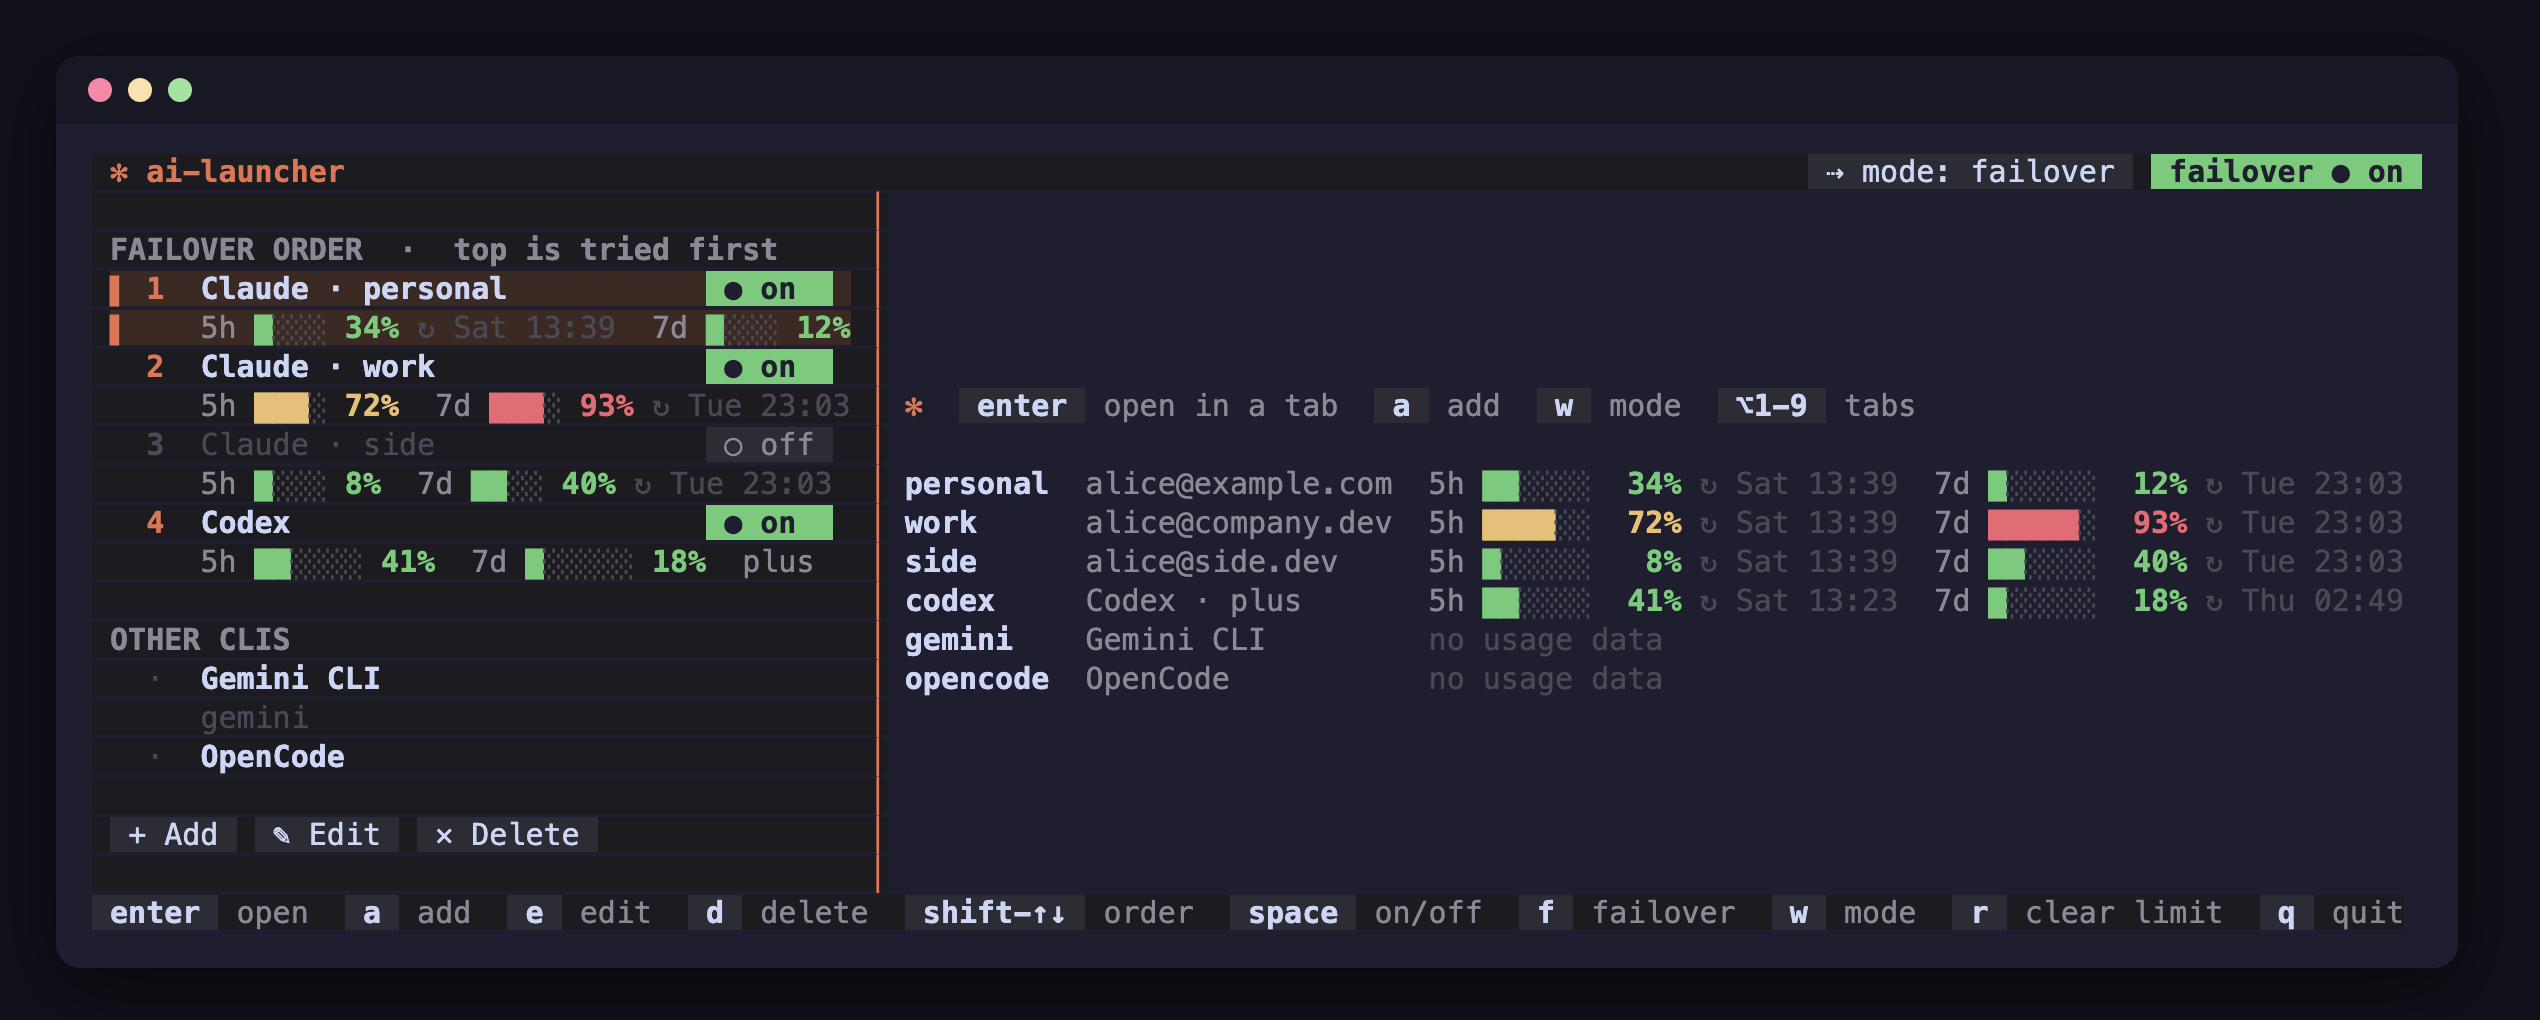
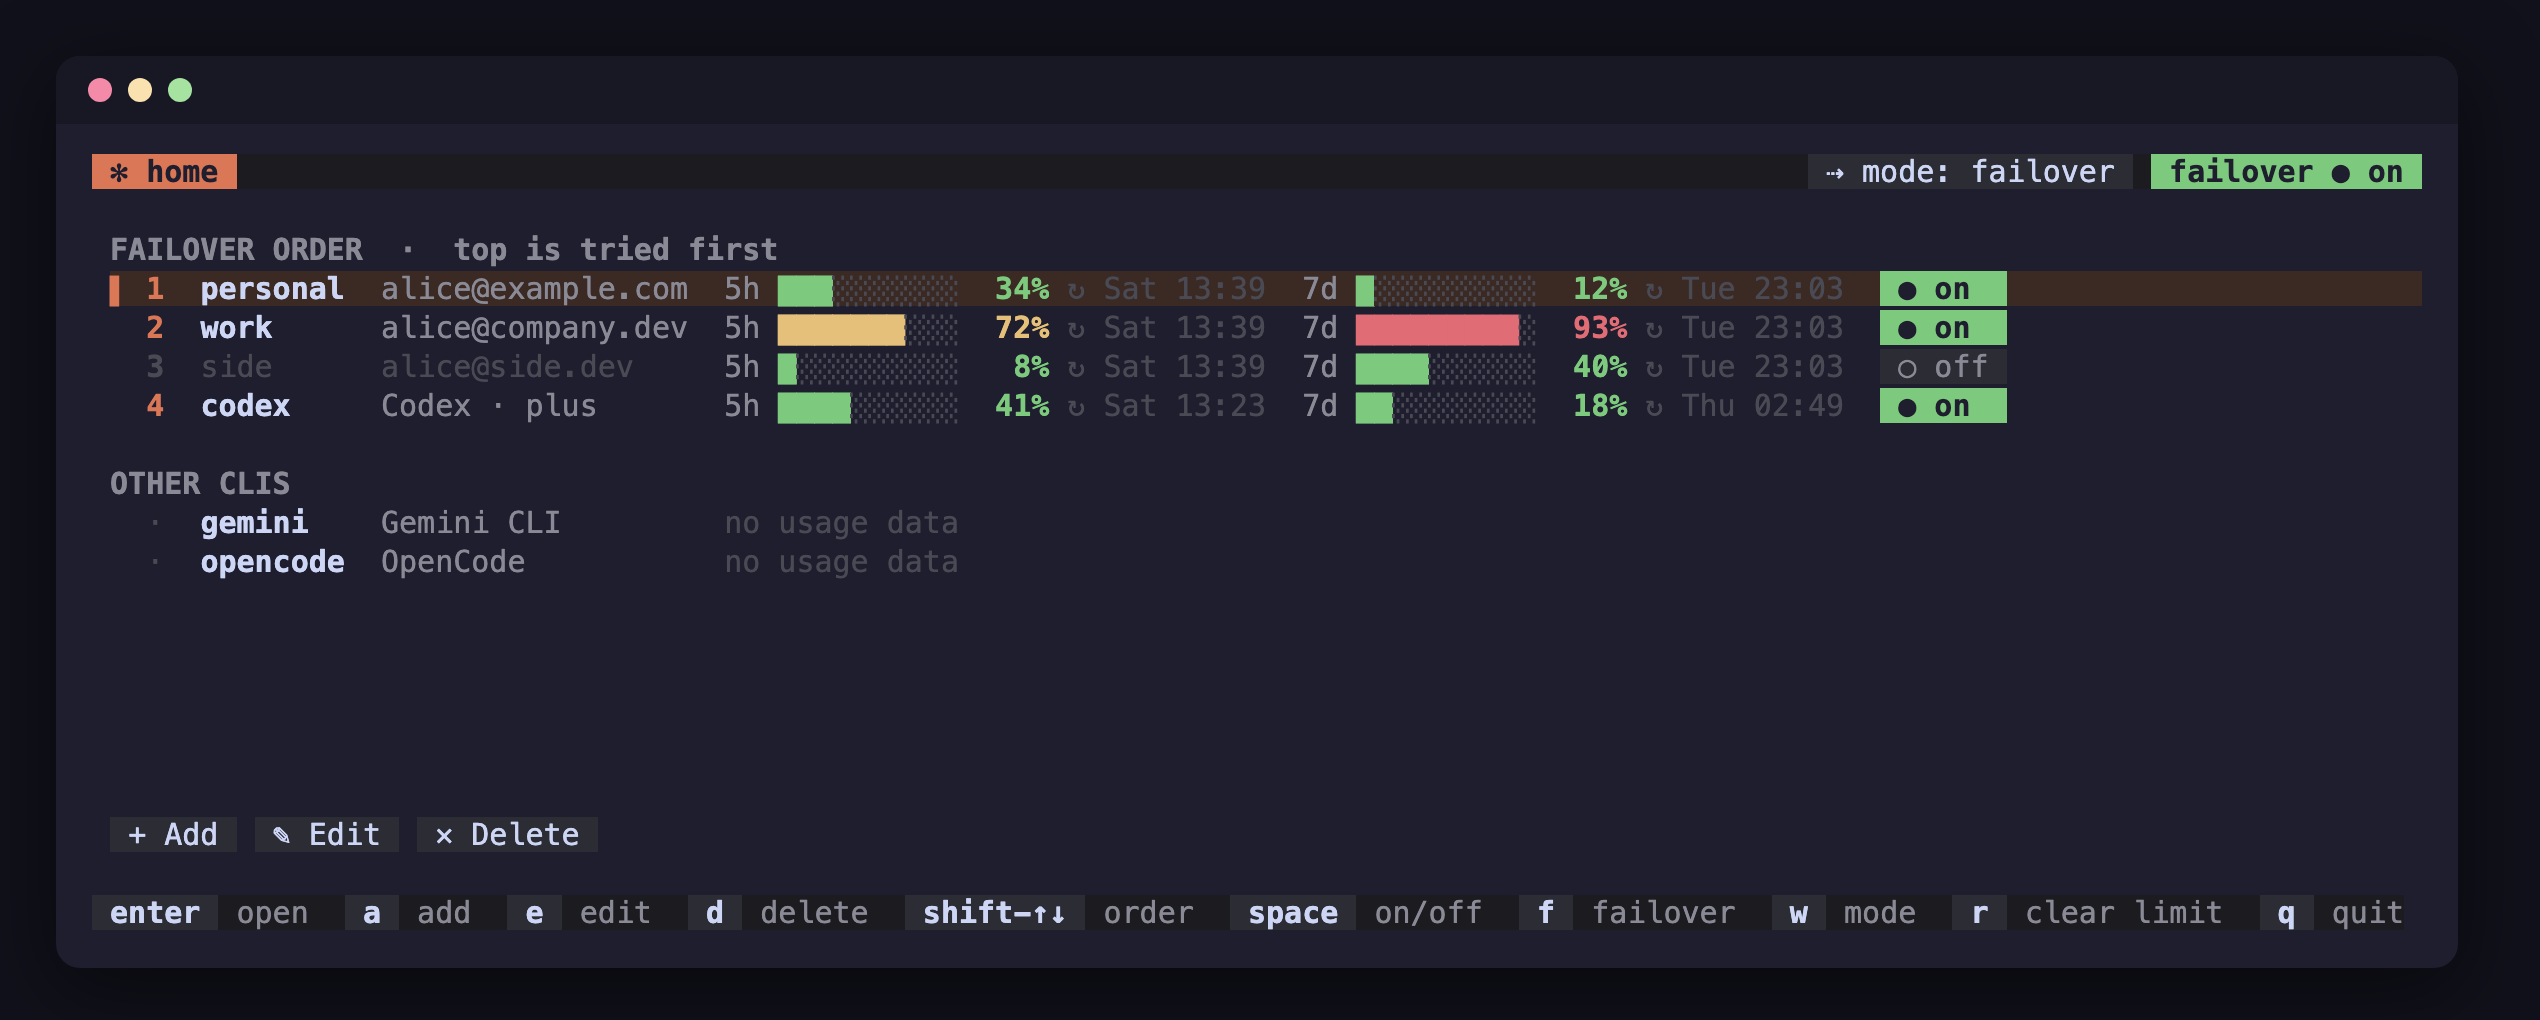
docs: README for the home tab layout; TUI screenshots first
The README led with the bash picker and still described the removed
sidebar. Lead with the TUI home screenshot, add a tab screenshot, move
the bash picker image to its own section, and rename the key table.

diff --git a/README.md b/README.md
@@ -2,7 +2,7 @@
 
 One command for all your AI coding agents. Type `ai` to see every agent and account with how much of its plan limit is used, then pick one to start it in the current folder.
 
-![ai picker showing Claude accounts and Codex with usage bars, plus Gemini and OpenCode](docs/screenshot.png)
+![ai-launcher home: every account with usage bars, reset times and a failover switch](docs/tui.png)
 
 - **Every agent in one list.** Claude Code (several accounts), Codex, Gemini, Antigravity, Kimi, OpenCode, Qwen, or any CLI you add.
 - **Usage at a glance.** Shows 5-hour and weekly limits with reset times. Bars turn yellow at 60% and red at 90%.
@@ -10,13 +10,18 @@ One command for all your AI coding agents. Type `ai` to see every agent and acco
 - **Trust a folder once.** If any agent trusts the folder, every agent you start through `ai` trusts it too, so they stop asking.
 - **No API calls.** Usage comes from files the agents already write on your machine.
 
-Works on macOS, Linux and Windows (PowerShell, CMD or WSL). Nothing extra to install: it's plain bash.
+There are two front ends with the same config: the TUI shown above (`npm i -g ai-launcher`), and a plain-bash picker that needs nothing installed ([Use it](#use-it)). Both work on macOS, Linux and Windows (PowerShell, CMD or WSL).
 
 ## TUI (preview)
 
-![ai-launcher TUI: failover order in the sidebar, usage table with reset times on the right](docs/tui.png)
+A terminal UI with two kinds of tabs:
 
-A terminal UI that shows every account in a sidebar with its priority, on/off state and usage. Until you open a tab, the right side shows a usage table like the bash picker: each account's email, 5-hour and weekly bars, and when each limit resets. Each CLI runs inside a tab on the right. Key hints that don't fit the terminal width are dropped, least important first. When failover triggers, the session switches to the next account in the same tab, after a 5 second notice (press enter to switch now). When a newer version is on npm, a notice appears in the title bar (checked at most once a day in the background; set `AI_LAUNCHER_NO_UPDATE_CHECK=1` to disable).
+- **`✻ home`** (the screenshot above) lists every account in failover order: its email, 5-hour and weekly usage bars, when each limit resets, and its `● on` / `○ off` failover switch. Other CLIs are listed below.
+- **One tab per running CLI**, using the full window. The bottom line shows that account's usage and, for Claude, which account failover moves to next.
+
+![a Claude tab: the CLI fills the window, with the account's usage and the next failover account on the bottom line](docs/tui-tab.png)
+
+On a narrow terminal, columns and key hints that don't fit are dropped, least important first. When failover triggers, the session switches to the next account in the same tab, after a 5 second notice (press enter to switch now). When a newer version is on npm, a notice appears in the title bar (checked at most once a day in the background; set `AI_LAUNCHER_NO_UPDATE_CHECK=1` to disable).
 
 Install:
 
@@ -31,7 +36,7 @@ The bash tool is also called `ai` (`bin/ai`, when the repo's `bin` is on your `P
 
 It reads and writes the same config as the bash `ai` (providers file, failover order and flag), so you can use both.
 
-| Key (sidebar) | Does |
+| Key (home) | Does |
 | --- | --- |
 | `up` `down` / `k` `j` | move selection |
 | `enter` | open the selected account in a tab |
@@ -46,7 +51,7 @@ It reads and writes the same config as the bash `ai` (providers file, failover o
 | `n` | round-robin: open the next account (or click `▶ Auto`) |
 | `m` | set the Auto decision model |
 | `r` | clear the account's limit |
-| `x` | close tab |
+| `x` | close the current tab (highlighted in the tab bar) |
 | `1`-`9` | go to tab n |
 | `tab` | next tab |
 | `q` / `ctrl-c` | quit |
@@ -63,13 +68,14 @@ Delete asks first. A Claude account folder moves to `<accounts folder>/.trash`, 
 | --- | --- |
 | `alt-1`-`alt-9` | go to tab n, also while typing in a CLI |
 | `alt-←` `alt-→` | previous / next tab |
-| `ctrl-\` | move between the list and the running CLI |
+| `ctrl-\` | go home, or from home back to the current tab |
+| `alt-0` | go home |
 
 On macOS, alt (⌥) keys need "Option as Meta" turned on in the terminal settings (Terminal: Profiles > Keyboard; iTerm2: Profiles > Keys).
 
 | Mouse | Does |
 | --- | --- |
-| click a tab | go to it |
+| click a tab (or `✻ home`) | go to it |
 | click a tab's `✕` | close it |
 | click an account | select it; click it again to open it |
 | `+ Add` / `✎ Edit` / `✕ Delete` | add, edit or delete the selected account |
@@ -83,7 +89,7 @@ In a tab, every key goes to the CLI except these:
 | Key (in a tab) | Does |
 | --- | --- |
 | `enter` | on a failover notice: switch now; on an ended tab: restart it |
-| `o` | on a failover notice: go to the list to pick another account |
+| `o` | on a failover notice: go home to pick another account |
 | `q` / `esc` | on a failover notice: stay on the ended session |
 | `x` | on an ended tab: close it |
 
@@ -150,6 +156,8 @@ Usage shows up after your next Claude reply. It is only reported on Pro and Max 
 ai                 # pick an agent and start it here
 ai --resume        # extra arguments go to the agent
 ```
+
+![bash picker showing Claude accounts and Codex with usage bars, plus Gemini and OpenCode](docs/screenshot.png)
 
 When a newer version is on npm, the picker shows an `update X available` line. It reads the same once-a-day cache as the TUI (refreshed in the background with `npm view`, only when npm exists). Set `AI_LAUNCHER_NO_UPDATE_CHECK=1` to turn it off.
 

diff --git a/AGENTS.md b/AGENTS.md
@@ -19,12 +19,12 @@ A bash command-line tool. `bin/ai` shows a picker of coding-agent CLIs with plan
 | `mods/failover/` | Claude Code mod. Its `classic.StopFailure` hook, on `rate_limit`, writes `$AI_FO_HANDOFF` and ends that claude. |
 | `plugins/<name>.sh` | Usage rows or a custom launch for the provider named `<name>`. `claude.sh` also implements `cla` / `cla-team`. |
 | `scripts/statusline-usage.sh` | Claude Code status line command that saves `rate_limits` to `$CLAUDE_CONFIG_DIR/usage/usage.json`. |
-| `tui/` | Rust TUI (`ai-launcher`): sidebar of accounts, each CLI in a tab, failover in place. |
+| `tui/` | Rust TUI (`ai-launcher`): `✻ home` tab listing accounts, each CLI in its own full-width tab, failover in place. |
 | `.github/workflows/` | `ci.yml` (branches/PRs), `release.yml` (build all platforms, draft release), `npm-publish.yml` (on publish). |
 | `npm/` | npm package files: `ai-launcher`, one package with every platform's binary in `bin/<platform>-<arch>/`. |
 | `scripts/npm-pack.sh` | Builds the npm packages from release binaries. |
 | `tests/check.sh` | Self-check of every feature against a fake `$HOME`. |
-| `docs/screenshot.png`, `docs/tui.png` | README images (bash picker, TUI), rendered from demo data. |
+| `docs/screenshot.png`, `docs/tui.png`, `docs/tui-tab.png` | README images (bash picker, TUI home, TUI tab), rendered from demo data. |
 
 ## Contracts to keep
 
